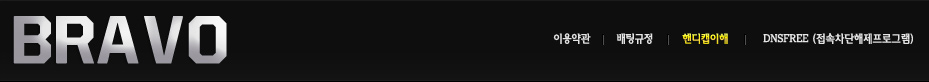
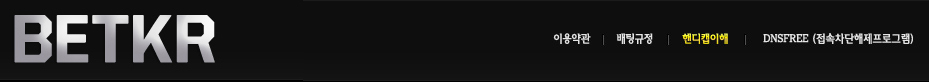
bravo : betkr

Changed region(s): [[0.0, 0.1707, 0.2497, 0.7805], [0.0, 0.9756, 0.3434, 1.0]]

diff --git a/src/com/xwin/domain/SiteConfig.java b/src/com/xwin/domain/SiteConfig.java
@@ -7,8 +7,8 @@ public class SiteConfig extends XwinObject
 	private static final long serialVersionUID = -3188943696296998618L;
 
 	public static final Locale SITE_LOCALE = Locale.US;	
-	public static final String SITE_NAME = "Bravo";
-	public static final String SITE_DOMAIN = "bravotime.net";
+	public static final String SITE_NAME = "BETKR";
+	public static final String SITE_DOMAIN = "betkr.net";
 	public static final boolean PIN_LOGIN = true;	
 	public static final String SITE_PHONE = "0000000000";
 }
